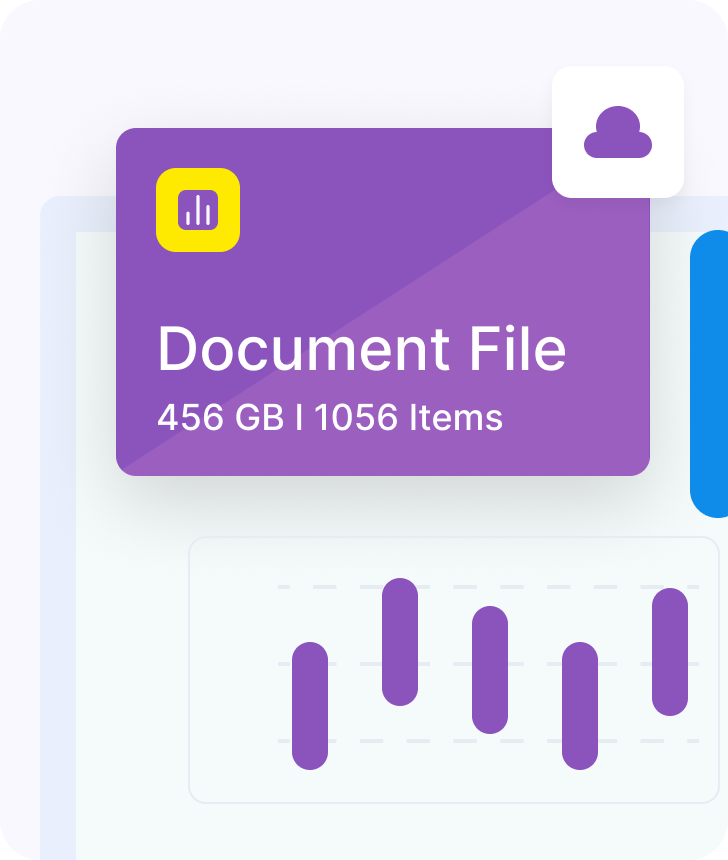
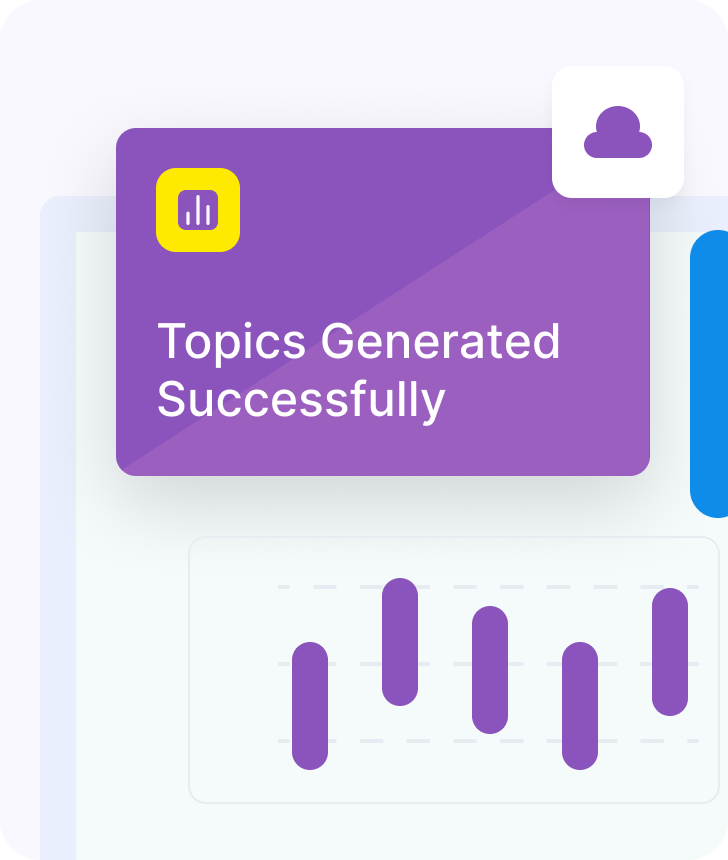
removing necessary component

Changed region(s): [[0.2115, 0.3628, 0.7857, 0.514]]

diff --git a/components/Hero.tsx b/components/Hero.tsx
@@ -4,12 +4,12 @@ import {
   Box,
   Heading,
   Text,
-  Button,
   Center,
   SimpleGrid,
 } from "@chakra-ui/react";
 import { AiOutlinePlayCircle } from "react-icons/ai";
-import { SiNotion, SiUnsplash, SiGrammarly, SiOpenai } from "react-icons/si";
+import { SiHashnode, SiMedium } from "react-icons/si";
+import { BiLogoDevTo } from "react-icons/bi";
 import { TbBrandGoogleAnalytics } from "react-icons/tb";
 import { HiOutlineCheckCircle } from "react-icons/hi";
 import { IconContext } from "react-icons/lib";
@@ -45,9 +45,9 @@ export default function Hero() {
             Powered your technical writing with AI
           </Heading>
           <Text color={"gray.500"} variant="secondary-text">
-            Gain in-depth analytics for your dev.to blog and receive
-            personalized topic ideas generated by AI, based on your previous
-            articles.
+            Gain in-depth analytics for your dev.to, Hashnode and Medium blog
+            and receive personalized topic ideas generated by AI, based on your
+            previous articles.
           </Text>
           <Stack
             spacing={{ base: 4, sm: 6 }}
@@ -100,40 +100,32 @@ export default function Hero() {
       <Box>
         <Center>
           <Heading variant="bold-medium-heading">
-            More than 25,000 teams use Collabs
+            Platforms that will be supported
           </Heading>
         </Center>
         <Center>
-          <SimpleGrid columns={[2, 2, 4]} spacing={20} mt={10}>
+          <SimpleGrid columns={[2, 2, 3]} spacing={20} mt={10}>
             <Flex alignItems="center">
               <IconContext.Provider value={{ color: "#A6A6A6", size: "2em" }}>
-                <SiNotion />
+                <BiLogoDevTo />
                 <Heading variant="secondary-heading" color="#A6A6A6">
-                  Notion
+                  dev.to
                 </Heading>
               </IconContext.Provider>
             </Flex>
             <Flex alignItems="center">
               <IconContext.Provider value={{ color: "#A6A6A6", size: "2em" }}>
-                <SiOpenai />
+                <SiHashnode />
                 <Heading variant="secondary-heading" color="#A6A6A6">
-                  OpenAI
+                  Hashnode
                 </Heading>
               </IconContext.Provider>
             </Flex>
             <Flex alignItems="center">
               <IconContext.Provider value={{ color: "#A6A6A6", size: "2em" }}>
-                <SiGrammarly />
+                <SiMedium />
                 <Heading variant="secondary-heading" color="#A6A6A6">
-                  grammarly
-                </Heading>
-              </IconContext.Provider>
-            </Flex>
-            <Flex alignItems="center">
-              <IconContext.Provider value={{ color: "#A6A6A6", size: "2em" }}>
-                <SiUnsplash />
-                <Heading variant="secondary-heading" color="#A6A6A6">
-                  Unsplash
+                  Medium
                 </Heading>
               </IconContext.Provider>
             </Flex>
@@ -157,8 +149,8 @@ const miniDisplayCardData: MiniDisplayCardData = [
   {
     top: 40,
     left: 60,
-    title: "Total Income",
-    subTitle: "$350.00",
+    title: "Views",
+    subTitle: "30% Growth",
     cardImage: null,
     icon: <TbBrandGoogleAnalytics />,
     flexD: "row",
@@ -166,7 +158,7 @@ const miniDisplayCardData: MiniDisplayCardData = [
   {
     top: 80,
     left: 0,
-    title: "Money Sent Successfully",
+    title: "Topics Genearted Successfully",
     subTitle: null,
     cardImage: null,
     icon: <HiOutlineCheckCircle />,

diff --git a/components/Benefits.tsx b/components/Benefits.tsx
@@ -4,9 +4,10 @@ import { IconContext } from "react-icons/lib";
 import Image from "next/image";
 import BenefitImg from "@/public/images/Benefit.png";
 import { MiniDisplayCard } from "@/cards/miniCards/MiniDisplayCard";
-import ProfileImage from "@/public/images/Profile.png";
-import { TbBrandGoogleAnalytics } from "react-icons/tb";
+import ProfileImage from "@/public/images/amarprofile.jpg";
+import { BiLinkAlt } from "react-icons/bi";
 import { HiOutlineCheckCircle } from "react-icons/hi";
+import { BsHash } from "react-icons/bs";
 import { StackDirection } from "@chakra-ui/react";
 import { StaticImageData } from "next/image";
 
@@ -83,7 +84,7 @@ export default function Benefits() {
 const BenefitsData = [
   "Find topics, research, edit, and publish articles faster",
   "Find relevant topics and research them thoroughly",
-  "Iddentify popular topics, and successful articless",
+  "Identify popular topics, and successful articless",
   "Easy to use and integrate with your blogging workflow",
   "Affordable and offer a free trial or low-cost subscription",
 ];
@@ -92,28 +93,28 @@ const miniDisplayCardData: MiniDisplayCardData = [
   {
     top: 10,
     left: 0,
-    title: "Suraj Vishwakarma",
-    subTitle: "Founder",
+    title: "Amar Gupta",
+    subTitle: "Technical Writer",
     cardImage: ProfileImage,
     icon: null,
-    flexD: "row",
+    flexD: "row-reverse",
   },
   {
     top: 40,
     left: 60,
-    title: "Total Income",
-    subTitle: "$350.00",
+    title: "Popular Tags",
+    subTitle: "#javascript, #react",
     cardImage: null,
-    icon: <TbBrandGoogleAnalytics />,
+    icon: <BsHash />,
     flexD: "row",
   },
   {
     top: 80,
     left: 0,
-    title: "Money Sent Successfully",
+    title: "Integrated with dev.to",
     subTitle: null,
     cardImage: null,
-    icon: <HiOutlineCheckCircle />,
+    icon: <BiLinkAlt />,
     flexD: "row-reverse",
   },
 ];

diff --git a/cards/miniCards/MiniDisplayCard.tsx b/cards/miniCards/MiniDisplayCard.tsx
@@ -2,7 +2,7 @@ import React from "react";
 import { Stack, Text } from "@chakra-ui/react";
 import Image from "next/image";
 import { IconContext } from "react-icons/lib";
-import { StackDirection } from "@chakra-ui/react";
+import { StackDirection, Box } from "@chakra-ui/react";
 import { StaticImageData } from "next/image";
 
 interface MiniDisplayCardProps {
@@ -32,7 +32,9 @@ export const MiniDisplayCard = ({
       boxShadow="0px 4px 9px 0px rgba(0, 0, 0, 0.1)"
     >
       {cardImage && (
-        <Image alt="Hero Image" src={cardImage} width={30} height={30} />
+        <Box borderRadius="50%" overflow="hidden">
+          <Image alt="Hero Image" src={cardImage} width={30} height={30} />
+        </Box>
       )}
       <Stack>
         <Text variant="secondary-text">{title}</Text>

diff --git a/components/UsageSections.tsx b/components/UsageSections.tsx
@@ -22,8 +22,9 @@ export default function UsageSection() {
               How We Help Technical Writers in Different Sections
             </Heading>
             <Text color="#A6A6A6" variant="secondary-text">
-              Our comprehensive suite of tools and services can help you write
-              clear, concise, and effective technical documentation.
+              We provide comprehensive assistance with topic research, AI
+              integration, and analytics to enhance your documentation process
+              and maximize its impact.
             </Text>
           </Stack>
           <Stack

diff --git a/components/Footer.tsx b/components/Footer.tsx
@@ -15,12 +15,12 @@ export const Footer = () => {
         spacing={{ base: 8, md: 10 }}
         py={{ base: 20, md: 28 }}
         direction={{ base: "column", md: "row" }}
-        justify={["space-between"]}
+        justify={["center"]}
       >
-        <Box width={{ base: "100%", md: "45%" }}>
+        {/* <Box width={{ base: "100%", md: "45%" }}>
           <Testimonial />
-        </Box>
-        <Box width={{ base: "100%", md: "45%" }}>
+        </Box> */}
+        <Box width={{ base: "100%", md: "60%", lg: "50%" }}>
           <JoinWaitlist />
         </Box>
       </Stack>

diff --git a/cards/JoinWaitlist.tsx b/cards/JoinWaitlist.tsx
@@ -27,7 +27,7 @@ export const JoinWaitlist = () => {
             Email address
           </Text>
         </FormLabel>
-        <Input variant="light-input" type="email" />
+        <Input variant="light-input" type="email" placeholder="Join Waitlist" />
       </FormControl>
       <Button variant="primary-button" width="100%">
         <Text variant="primary-text">Join Waitlist</Text>

diff --git a/cards/FooterLink.tsx b/cards/FooterLink.tsx
@@ -50,7 +50,7 @@ export default function FooterLink() {
       >
         <SimpleGrid
           width="100%"
-          templateColumns={{ sm: "1fr 1fr", md: "3fr 1fr 1fr 1fr" }}
+          templateColumns={{ base: "1fr 1fr", md: "3fr 1fr 1fr 1fr" }}
           spacing={8}
           justifyContent="space-between"
         >

diff --git a/app/page.tsx b/app/page.tsx
@@ -86,7 +86,7 @@ export default function Home() {
           left="70%"
           zIndex={-1}
         />
-        <Pricing />
+        {/* <Pricing /> */}
       </Box>
       <Box backgroundColor="#161C28">
         <Footer />
